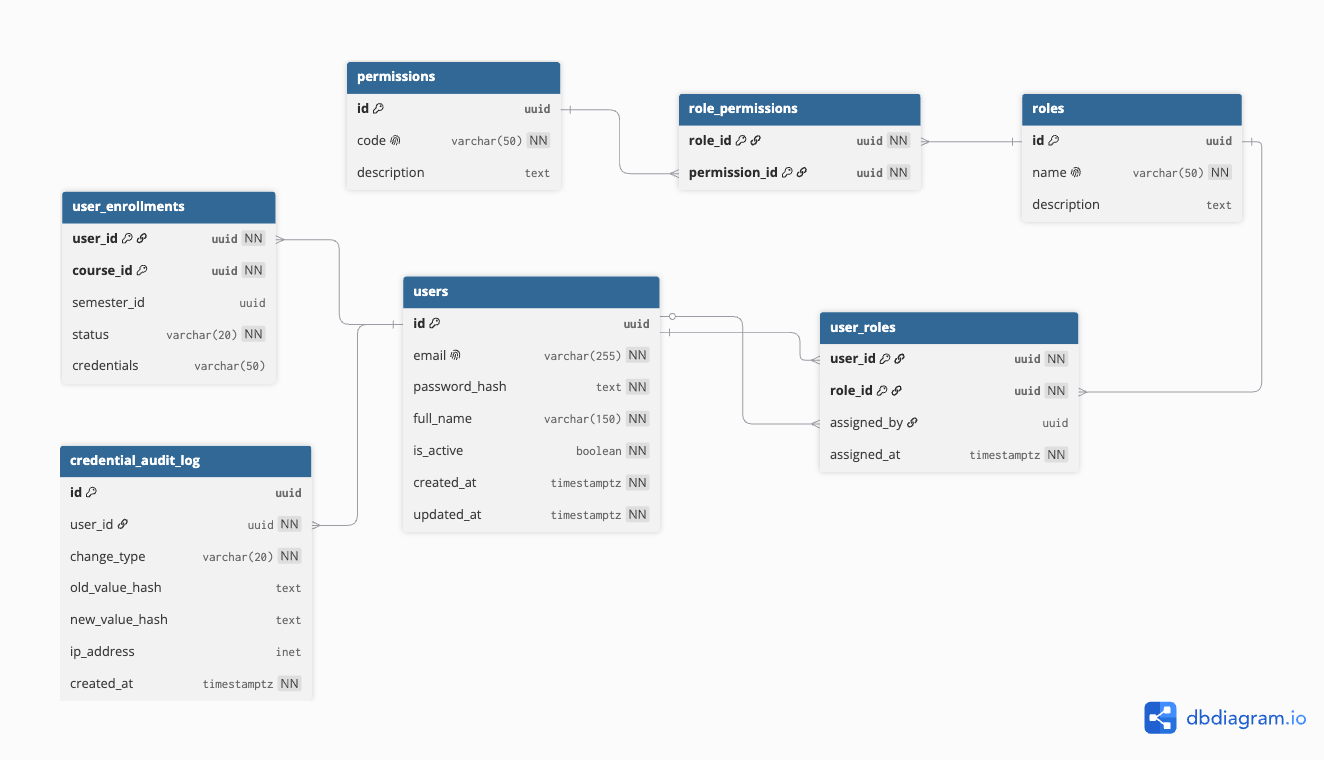
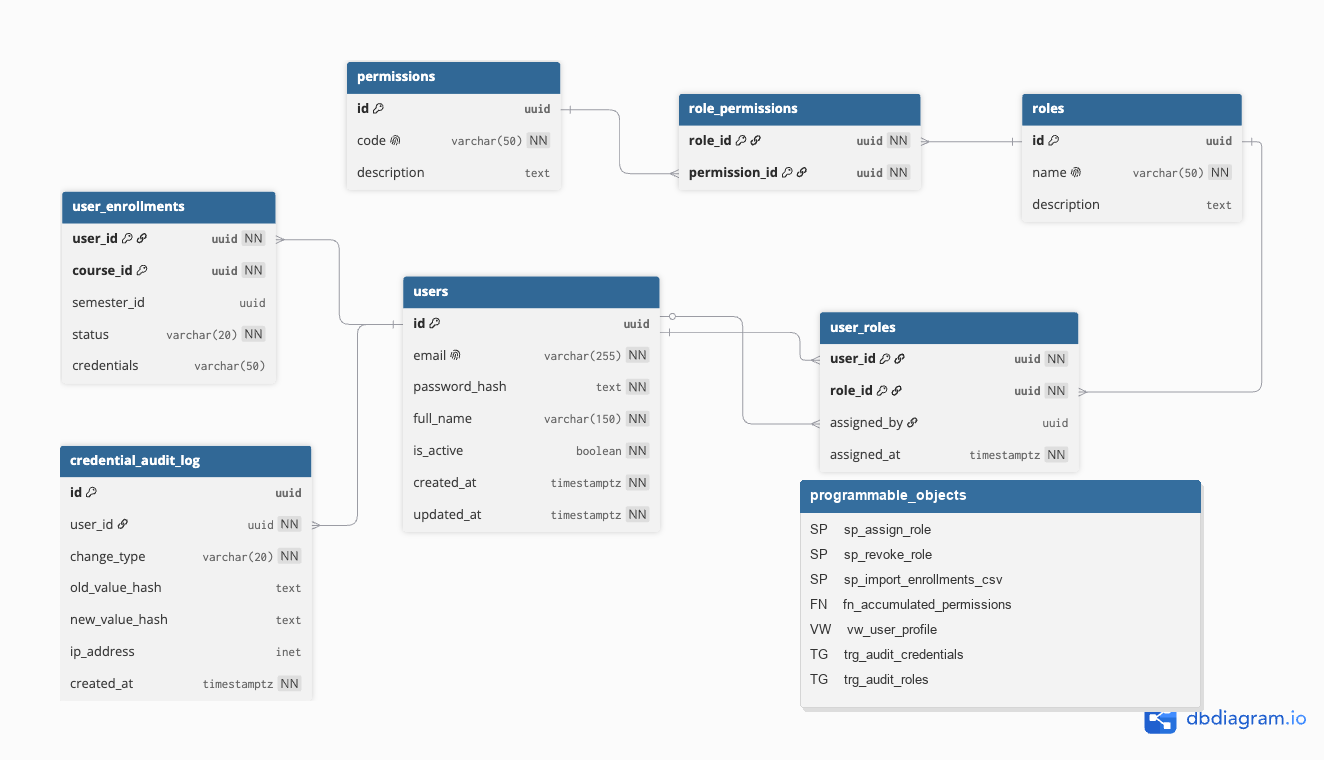
fix(docs): update db diagrams adding programable objects

Changed region(s): [[0.5884, 0.6053, 0.929, 0.9382]]

diff --git a/docs/base-de-datos/modelo-entidad-relacion.md b/docs/base-de-datos/modelo-entidad-relacion.md
@@ -503,6 +503,6 @@ La lógica de Analítica se implementa en Python:
 
 - El modelo Entidad-Relación de YoUSAC se diseñó bajo el patrón **Database per Microservice**, con cinco bases de datos independientes y una instancia de Redis exclusiva para Analítica, garantizando la autonomía y el escalamiento independiente de cada servicio.
 - La **matriz políglota** de persistencia combina PostgreSQL (tres instancias) para datos relacionales con esquemas estrictos (usuarios, catálogo, notificaciones) y MongoDB (dos instancias) para datos de alta concurrencia de escritura y esquemas flexibles (checkpoints, analítica).
-- Se mapearon **8 procedimientos almacenados**, **6 vistas**, **4 funciones** y **2 triggers** sobre las bases de datos PostgreSQL, cumpliendo los requerimientos RNF-022 a RNF-025 y las decisiones de contexto sobre lógica programable.
+- Se mapearon **6 procedimientos almacenados**, **4 vistas**, **3 funciones** y **2 triggers** sobre las bases de datos PostgreSQL, cumpliendo los requerimientos RNF-022 a RNF-025 y las decisiones de contexto sobre lógica programable.
 - Redis se configuró con **5 patrones de clave** con TTL diferenciados por dominio (15 min para catálogo, 5 min para tendencias), cumpliendo los requerimientos de caché (RNF-004, RNF-005) y evitando la sobrecarga de las bases de datos durante picos de concurrencia.
 - Las relaciones entre microservicios se modelaron como referencias lógicas por ID (no existen llaves foráneas físicas entre bases de datos distintas). Toda comunicación entre servicios para obtener datos de otro dominio se realiza exclusivamente mediante gRPC.
